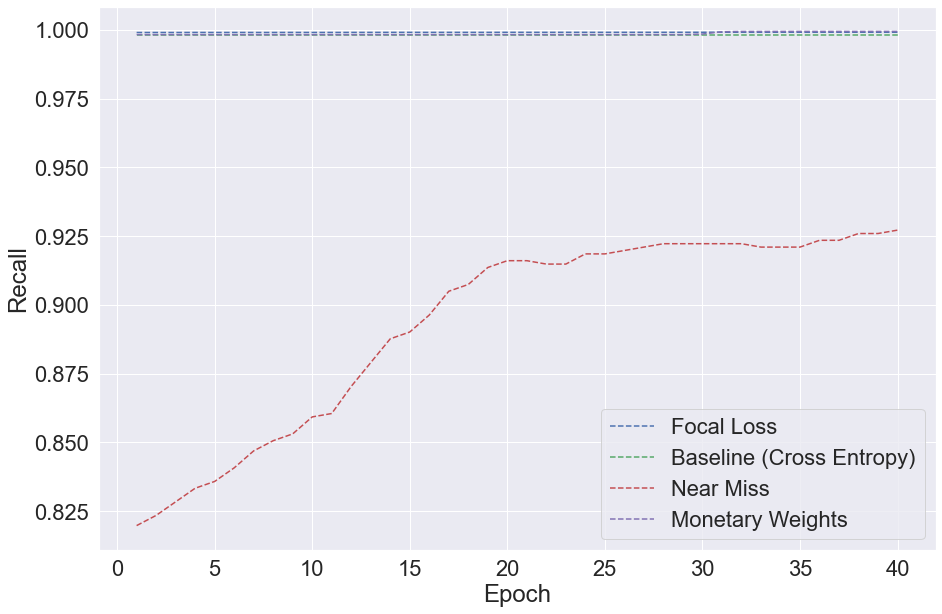
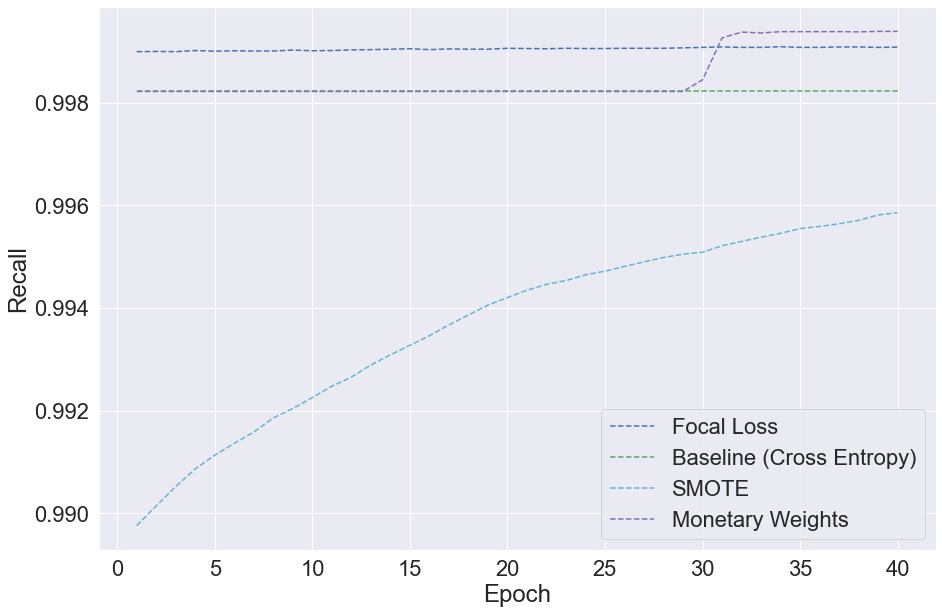
v

diff --git a/README.md b/README.md
@@ -54,7 +54,7 @@ Asymmetric Loss refers to a class of loss functions where loss is calculated dif
 
 In some applications costs of misclassification may differ. In our case of email fraud this is readily apparent: misclassifying a transation as fraud causes some transactional costs and inconvenience to the consumer, but misclassifying a fraudulent transaction as real can cost the credit card company thousands of dollars. We use an asymmetric loss function where false negatives are weighted more than false positives to reflect this real world cost.
  
-E[classify as fraud | not fraud ] < $$ E[classify as real | fraud]
+E[classify as fraud | not fraud ] <  E[classify as real | fraud]
 
 We assign loss for false negatives to be 4 times higher than the other classifications.
 
@@ -90,7 +90,9 @@ This method increases the speed of training, since the training set is made smal
 
 ## Evaluation
 
-Here are the final results of our models:
+Here are the final results of our models on the test set:
+
+
 ![convfoc](pics/convolution/foc.png)
 ![convfoc](pics/convolution/ce.png)
 ![convfoc](pics/convolution/nm.png)
@@ -125,7 +127,7 @@ In general, the reliability of a classification. This plot emphasizes the trade-
 
 As an example to illustrate how this can be important, consider e-mail spam: there is a trade off between precision and TPR. WIth a high TPR, all spam is correctly identified, but if the precision is low then the user will often be retrieving emails from the spam folder. This defeats the purpose of the classifier, since the user has to manually decide anyways.
 
-![prcurve](pics/prcurve.png)
+![prcurve](pics/convolution/prcurve.png)
 
 We observe that Focal Loss, Asymmetric Loss and SMOTE all perform best, becayse they have the smallest tradeoff between precision and recall, maintaining high precision until around 0.8 recall. Near Miss and monetary weights performs the worst in precision. 
 
@@ -145,33 +147,20 @@ We observe that SMOTE performs the worst and Near Miss performs the best in term
 ![convergence](pics/ep_rec/nm.png)
 ![convergence](pics/ep_rec/smote.png)
 ![convergence](pics/ep_rec/asym.png)
+
+It takes many epochs, but eventually the converges to a very high recall rate when using asymmetric loss.
+
 ![convergence](pics/ep_rec/monet.png)
 ![convergence](pics/ep_rec/focweight.png)
 
+Focal with monetary weights converges faster and has higher recall on the train set than without.
 
-text
+When comparing the rates
 
 ![convergence](pics/ep_rec/1.png)
 ![convergence](pics/ep_rec/2.png)
 ![convergence](pics/ep_rec/3.png)
 
-text
-
-![convergence](pics/ep_prec/foc.png)
-![convergence](pics/ep_prec/ce.png)
-![convergence](pics/ep_prec/nm.png)
-![convergence](pics/ep_prec/smote.png)
-![convergence](pics/ep_prec/asym.png)
-![convergence](pics/ep_prec/monet.png)
-![convergence](pics/ep_prec/focweight.png)
-
-text
-
-![convergence](pics/ep_prec/1.png)
-![convergence](pics/ep_prec/2.png)
-![convergence](pics/ep_prec/3.png)
-
-text
 
 #### Recommendations
 
@@ -179,7 +168,6 @@ text
 #### Metrics
 * monetary losses
 * AUC
-* false negatives & false positives
 
 
 ##### AUC (Aread Under Curve)
@@ -190,6 +178,7 @@ TPR = Recall = ![equation](pics/tex/recall.gif) is the proportion of positives w
 
 FPR = ![equation](pics/tex/fpr.gif) is the proportion of negatives which were incorrectly classified as positive.
 
+![auc](pics/convolution/auc.png)
 
 ##### Monetary Loss
 * Focal Loss: 8481.850000000002
@@ -200,7 +189,7 @@ FPR = ![equation](pics/tex/fpr.gif) is the proportion of negatives which were in
 * Monetary Weights: 7634.910000000001
 * Focal with Weights: 13725.740000000005
 
-##### False Negatives & False Positives
+Based solely on monetary loss, Near Miss performs the best.
 
 
 #### Recommendations
